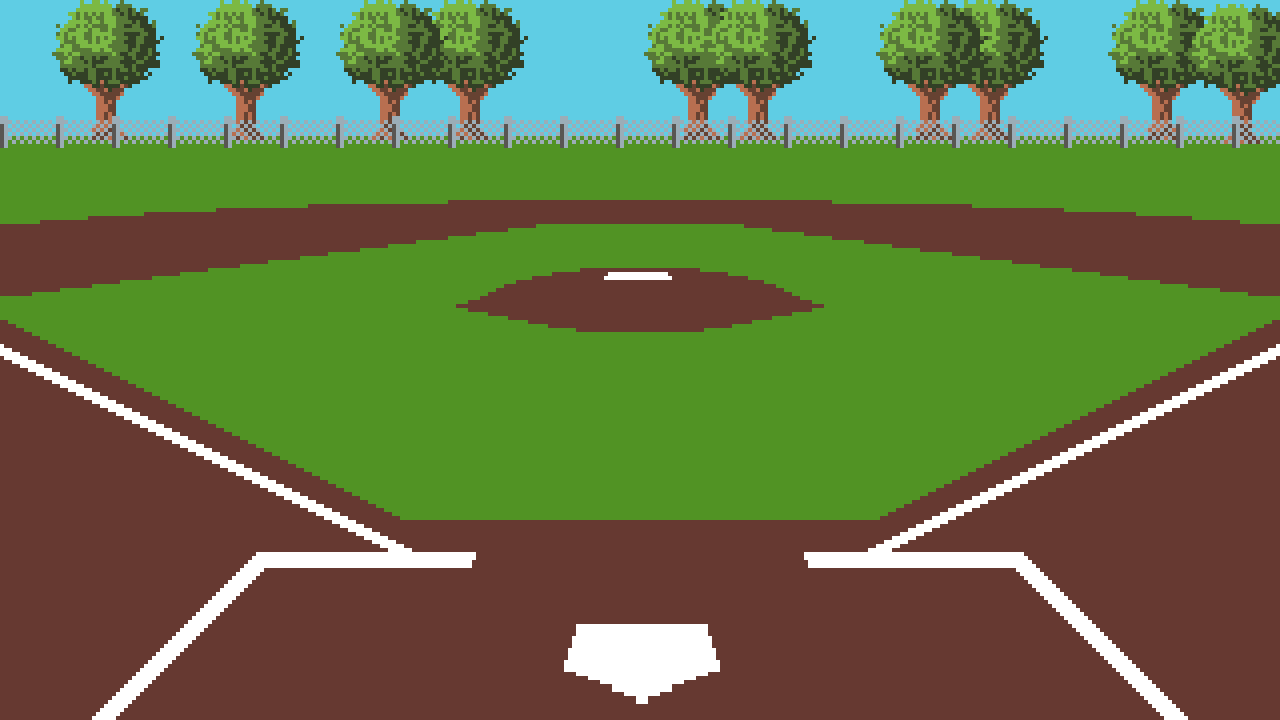
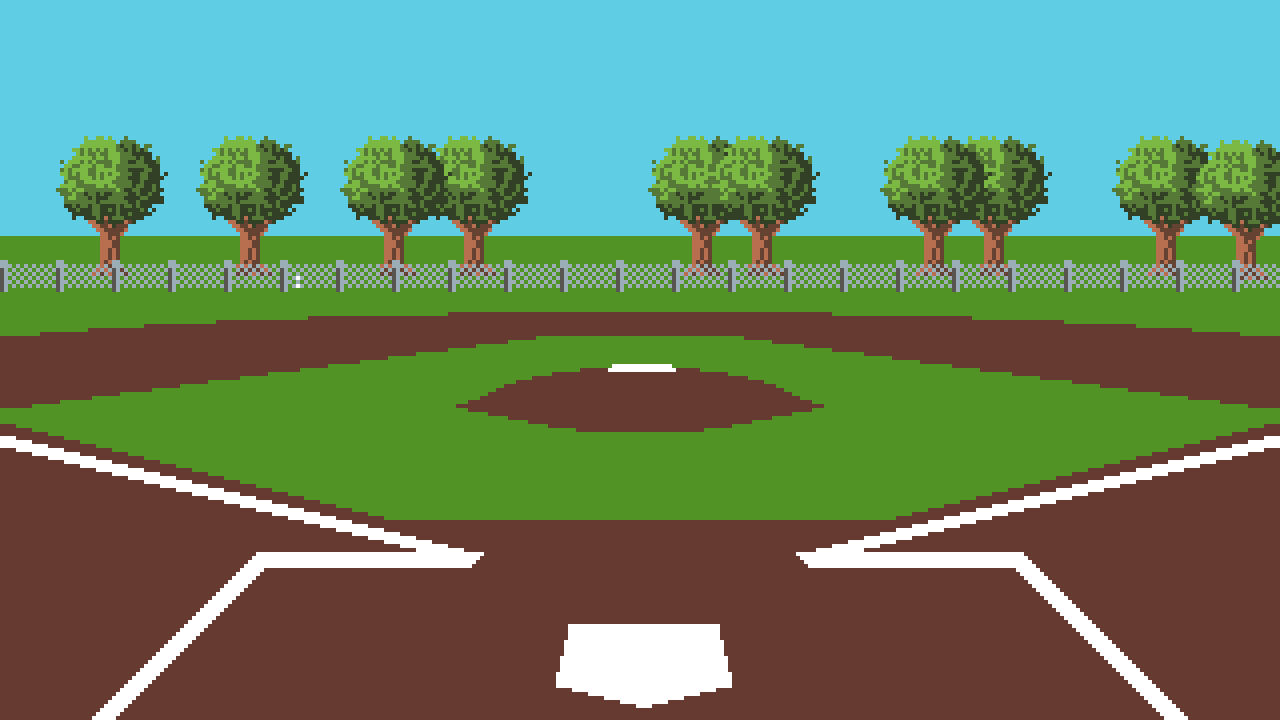
new view, pitching

diff --git a/js/game.js b/js/game.js
@@ -30,12 +30,34 @@ let pitchPhase = 'ready';
 let lastSwingTime = 0;
 let swingCooldown = 500;
 
+let pitchStartLocation = { x: 584, y: 298 };
+let pitchEndLocation = { x: 0, y: 0};
+let shadowStartLocation = { x: 584, y: 369};
+let shadowEndLocation = { x: 0, y: 705};
+
+let fastballTime = .75;
+
+let strikezone = {
+    leftTop: { x: 0 , y: 0 },
+    rightTop: { x: 0, y: 0 },
+    leftBottom: { x: 0, y: 0 },
+    rightBottom: { x: 0, y: 0 }
+};
+
+let pitchArea = {
+    leftTop: { x: 500, y: 400 },
+    rightTop: { x: 800, y: 400 },
+    leftBottom: { x: 500, y: 700 },
+    rightBottom: { x: 800, y: 700 }
+};
+
 function preload()
 {
     this.load.image('background', 'assets/battingView.png');
-    this.load.spritesheet('batter', 'assets/batter.png', { frameWidth: 528 , frameHeight: 480 });
+    this.load.spritesheet('batter', 'assets/batter.png', { frameWidth: 704 , frameHeight: 640 });
     this.load.spritesheet('pitcher', 'assets/pitcher.png', { frameWidth: 128, frameHeight: 192 });
-    this.load.spritesheet('ball', 'assets/baseballBatting.png', { frameWidth: 32, frameHeight: 32 });
+    this.load.spritesheet('ball', 'assets/fastball.png', { frameWidth: 48, frameHeight: 48 });
+    this.load.image('pitchShadow', 'assets/pitchShadow.png');
 }
 
 function create()
@@ -43,14 +65,16 @@ function create()
     background = this.add.sprite(0, 0, 'background');
     background.setOrigin(0, 0);
 
-    batter = this.add.sprite(144, 216, 'batter');
+    batter = this.add.sprite(50, 80, 'batter');
     batter.setOrigin(0, 0);
 
-    pitcher = this.add.sprite(572, 116, 'pitcher');
+    pitcher = this.add.sprite(572, 210, 'pitcher');
     pitcher.setOrigin(0, 0);
 
-    ball = this.physics.add.sprite(572, 116, 'ball');
+    ball = this.physics.add.sprite(pitchStartLocation.x, pitchStartLocation.y, 'ball');
     ball.setAlpha(0);
+
+    pitchShadow = this.physics.add.sprite(shadowStartLocation.x, shadowStartLocation.y, 'pitchShadow');
 
     this.anims.create({
         key: 'swing',
@@ -82,13 +106,18 @@ function create()
 
     this.anims.create({
         key: 'ballPitch',
-        frames: this.anims.generateFrameNumbers('ball', { start: 0, end: 3 }),
-        frameRate: 4,
-        repeat: 0
+        frames: this.anims.generateFrameNumbers('ball', { start: 0, end: 10 }),
+        frameRate: 60,
+        repeat: -1
     });
 
     batter.anims.play('batterIdle');
     pitcher.anims.play('pitcherIdle');
+
+    ball.setScale(0);
+    pitchShadow.setScale(0);
+    ball.setDepth(10);
+    pitchShadow.setDepth(9);
 }
 
 function update(time, delta)
@@ -104,13 +133,63 @@ function update(time, delta)
     if (time > lastPitchTime + ballReleaseTime && pitchPhase === 'pitched')
     {
         pitchPhase = 'ballVisible';
+
+        pitchEndLocation.x = Phaser.Math.Between(pitchArea.leftTop.x, pitchArea.rightTop.x);
+        pitchEndLocation.y = Phaser.Math.Between(pitchArea.leftTop.y, pitchArea.leftBottom.y);
+        shadowEndLocation.x = pitchEndLocation.x;
+
         ball.setVisible(true);
         ball.setAlpha(1);
         ball.anims.play('ballPitch');
-        ball.setPosition(572, 130);
-        ball.setVelocityX(10);
-        ball.setVelocityY(300);
+        ball.setPosition(pitchStartLocation.x, pitchStartLocation.y);
+
+        ballDistance = Phaser.Math.Distance.Between(pitchStartLocation.x, pitchStartLocation.y,
+                        pitchEndLocation.x, pitchEndLocation.y);
+
+        shadowDistance = Phaser.Math.Distance.Between(shadowStartLocation.x, shadowStartLocation.y,
+                        shadowEndLocation.x, shadowEndLocation.y);
+
+        ballSpeed = ballDistance / fastballTime;
+        shadowSpeed = shadowDistance / fastballTime;
+
+        ballVelocityX = findXVelocity(pitchStartLocation.x - pitchEndLocation.x,
+                        pitchStartLocation.y - pitchEndLocation.y, ballSpeed);
+
+        ballVelocityY = findYVelocity(pitchStartLocation.x - pitchEndLocation.x,
+                        pitchStartLocation.y - pitchEndLocation.y, ballSpeed);
+
+        console.log('ball velX = ', ballVelocityX);
+        console.log('ball velY = ', ballVelocityY);
+
+        ball.setVelocityX(ballVelocityX);
+        ball.setVelocityY(ballVelocityY);
+
+        pitchShadow.setVelocityX(findXVelocity(shadowStartLocation.x - shadowEndLocation.x,
+            shadowStartLocation.y - shadowEndLocation.y, shadowSpeed ));
+        pitchShadow.setVelocityY(findYVelocity(shadowStartLocation.x - shadowEndLocation.x,
+            shadowStartLocation.y - shadowEndLocation.y, shadowSpeed));
+
+        //console.log('ball velX = ', ball.velocity.x);
+
         console.log('testBall');
+    }
+
+    if (pitchPhase === 'ballVisible')
+    {
+        ball.setScale((pitchShadow.y - shadowStartLocation.y)
+            / (shadowEndLocation.y - shadowStartLocation.y));
+        pitchShadow.setScale((pitchShadow.y - shadowStartLocation.y)
+            / (shadowEndLocation.y - shadowStartLocation.y));
+    }
+
+    if (pitchShadow.y > shadowEndLocation.y && pitchPhase === 'ballVisible')
+    {
+        ball.anims.stop();
+        ball.setVelocityX(0);
+        ball.setVelocityY(0);
+        pitchShadow.setVelocityX(0);
+        pitchShadow.setVelocityY(0);
+        //console.log('testStopPitch');
     }
 
     if (time > lastPitchTime + pitchResetTime && pitchPhase === 'ballVisible')
@@ -118,10 +197,14 @@ function update(time, delta)
         pitchPhase = 'ready';
         pitcher.anims.play('pitcherIdle');
         batter.anims.play('batterIdle');
-        ball.setPosition(572, 116);
+        ball.setPosition(pitchStartLocation.x, pitchStartLocation.y);
+        pitchShadow.setPosition(shadowStartLocation.x, shadowStartLocation.y);
         ball.setVelocityX(0);
         ball.setVelocityY(0);
-        ball.setAlpha(0);
+
+        ball.setScale(0);
+        pitchShadow.setScale(0);
+
         console.log('testReset');
     }
 
@@ -136,6 +219,28 @@ function update(time, delta)
         lastSwingTime = time;
     }
 
+}
 
+function findXVelocity (x, y, speed) {
+    let angle;
+    angle = Math.atan(Math.abs(y) / Math.abs(x));
 
+    if (x > 0) {
+        return (speed * Math.cos(angle)) * -1;
+    }
+    else {
+        return speed * Math.cos(angle);
+    }
+}
+
+function findYVelocity(x, y, speed) {
+    let angle;
+    angle = Math.atan(Math.abs(y) / Math.abs(x));
+
+    if (y > 0) {
+        return (speed * Math.sin(angle)) * -1;
+    }
+    else {
+        return speed * Math.sin(angle);
+    }
 }
